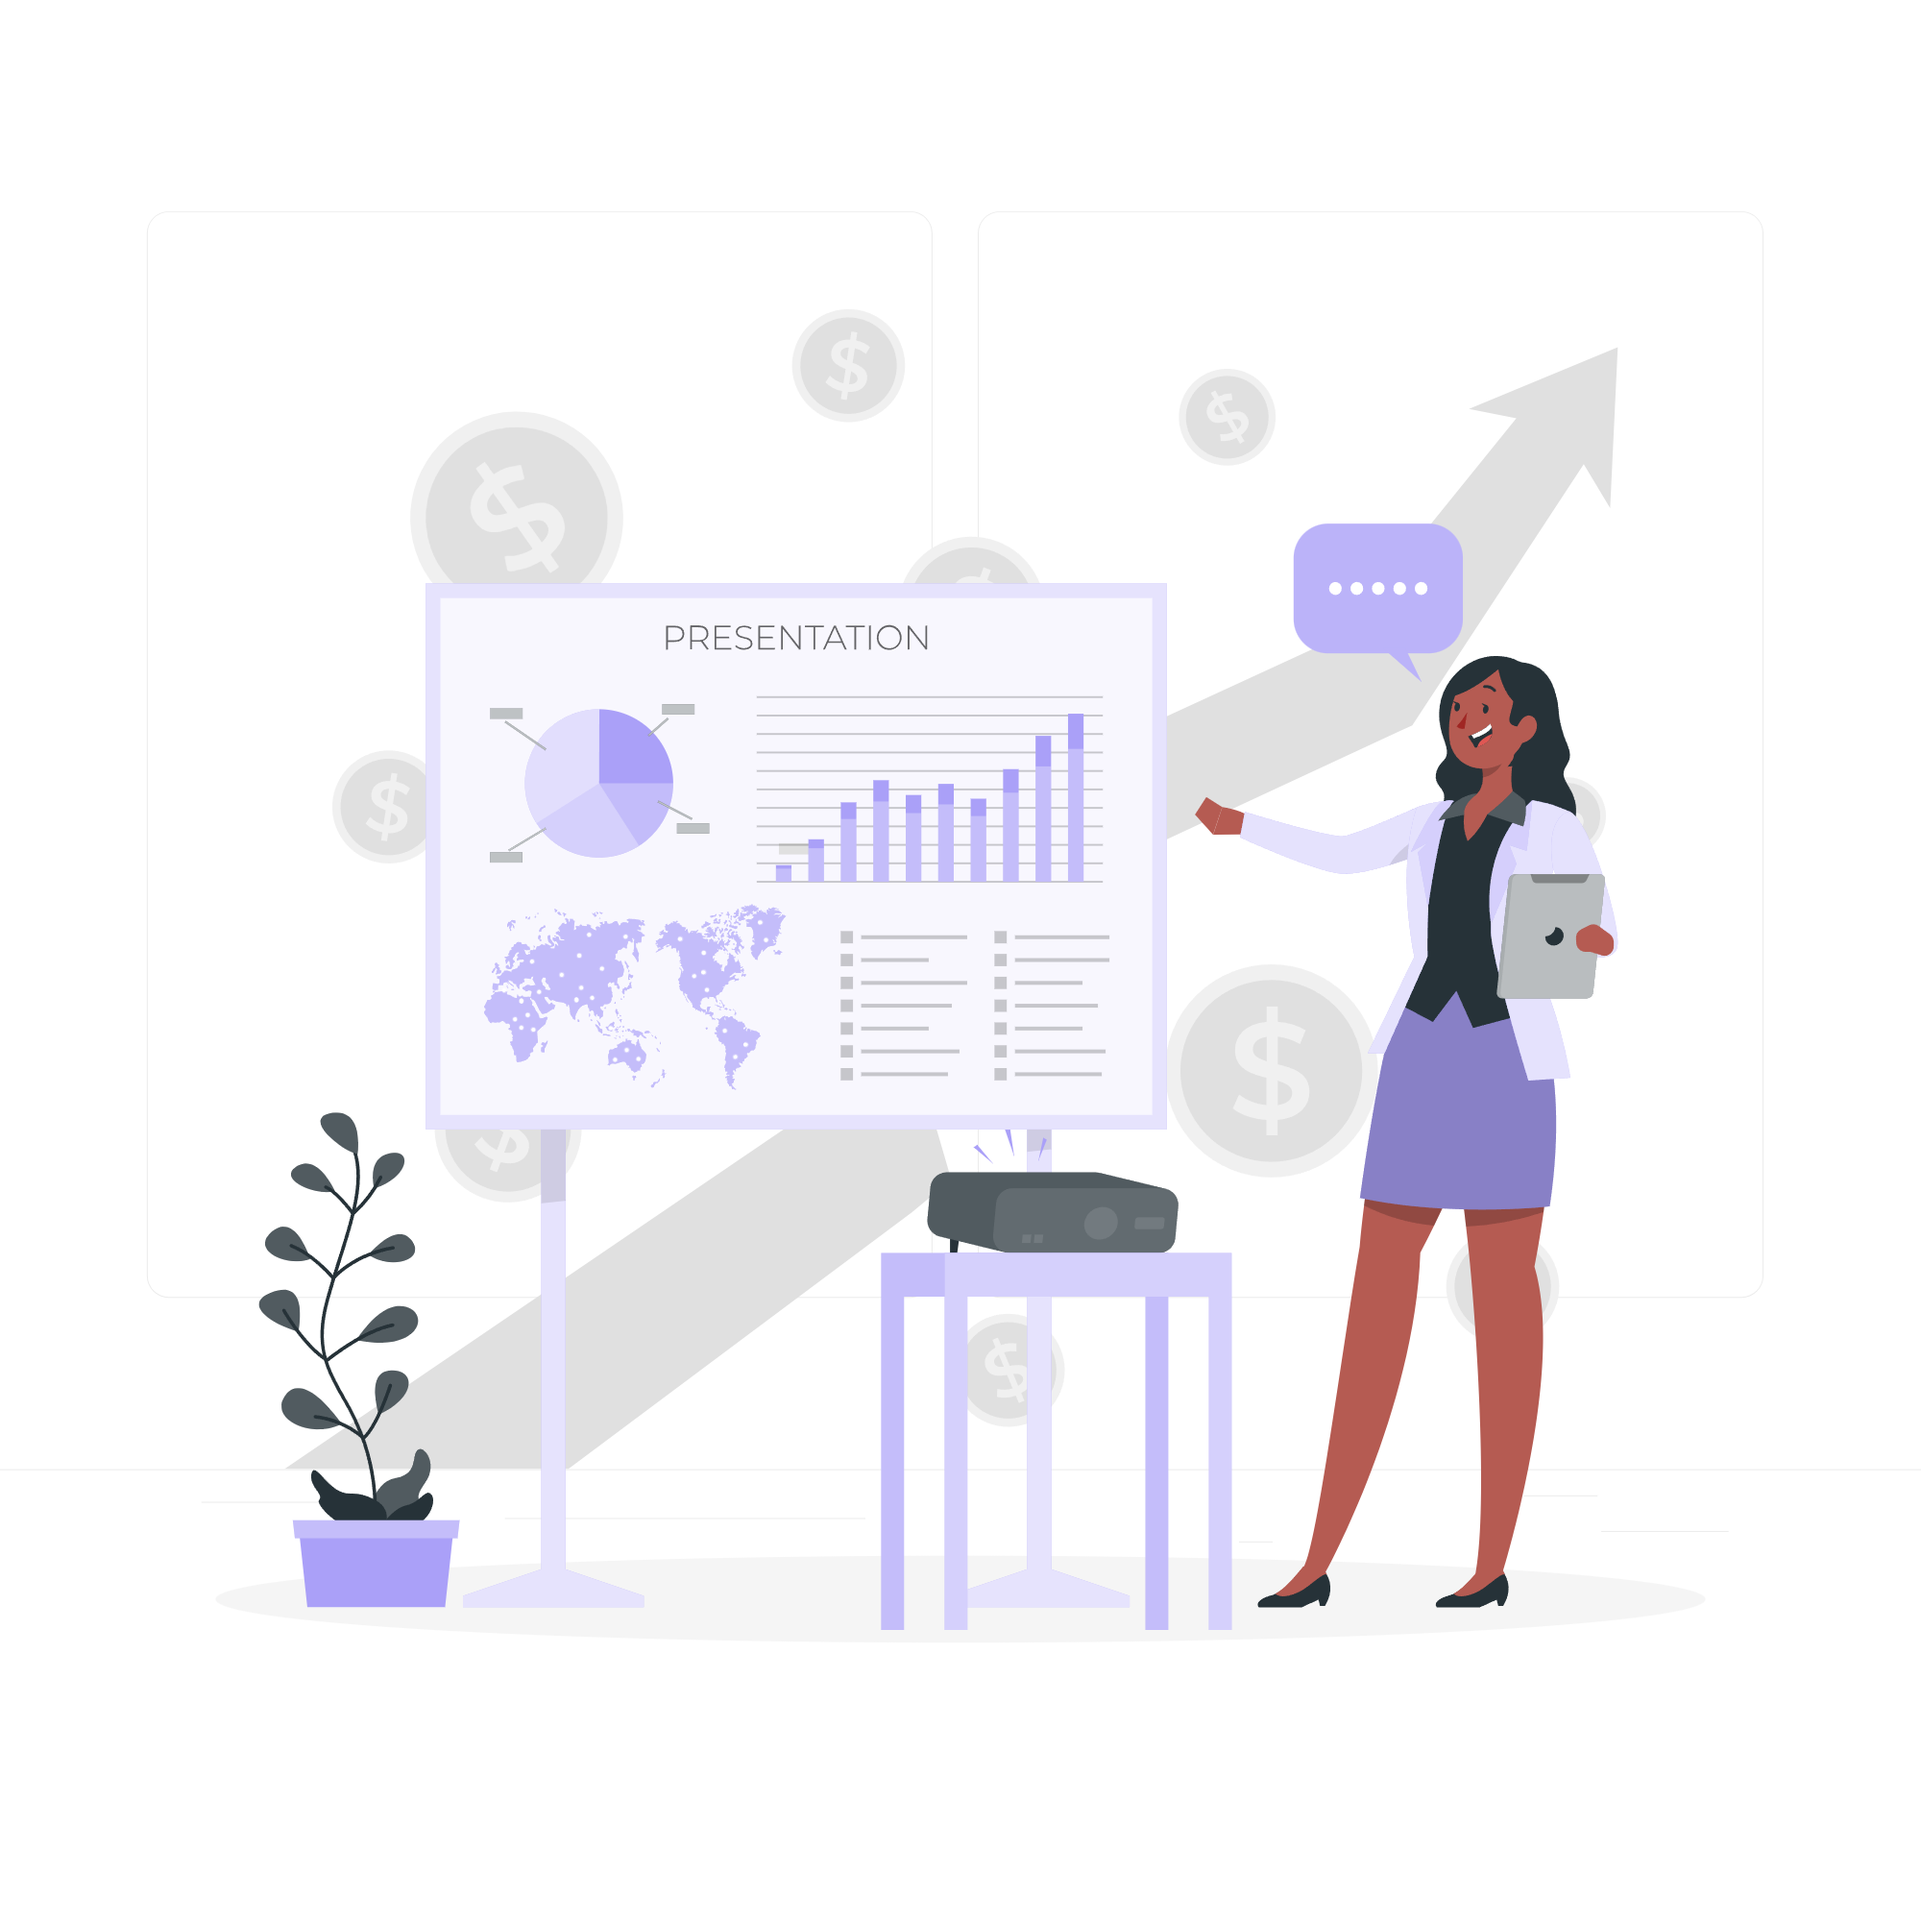
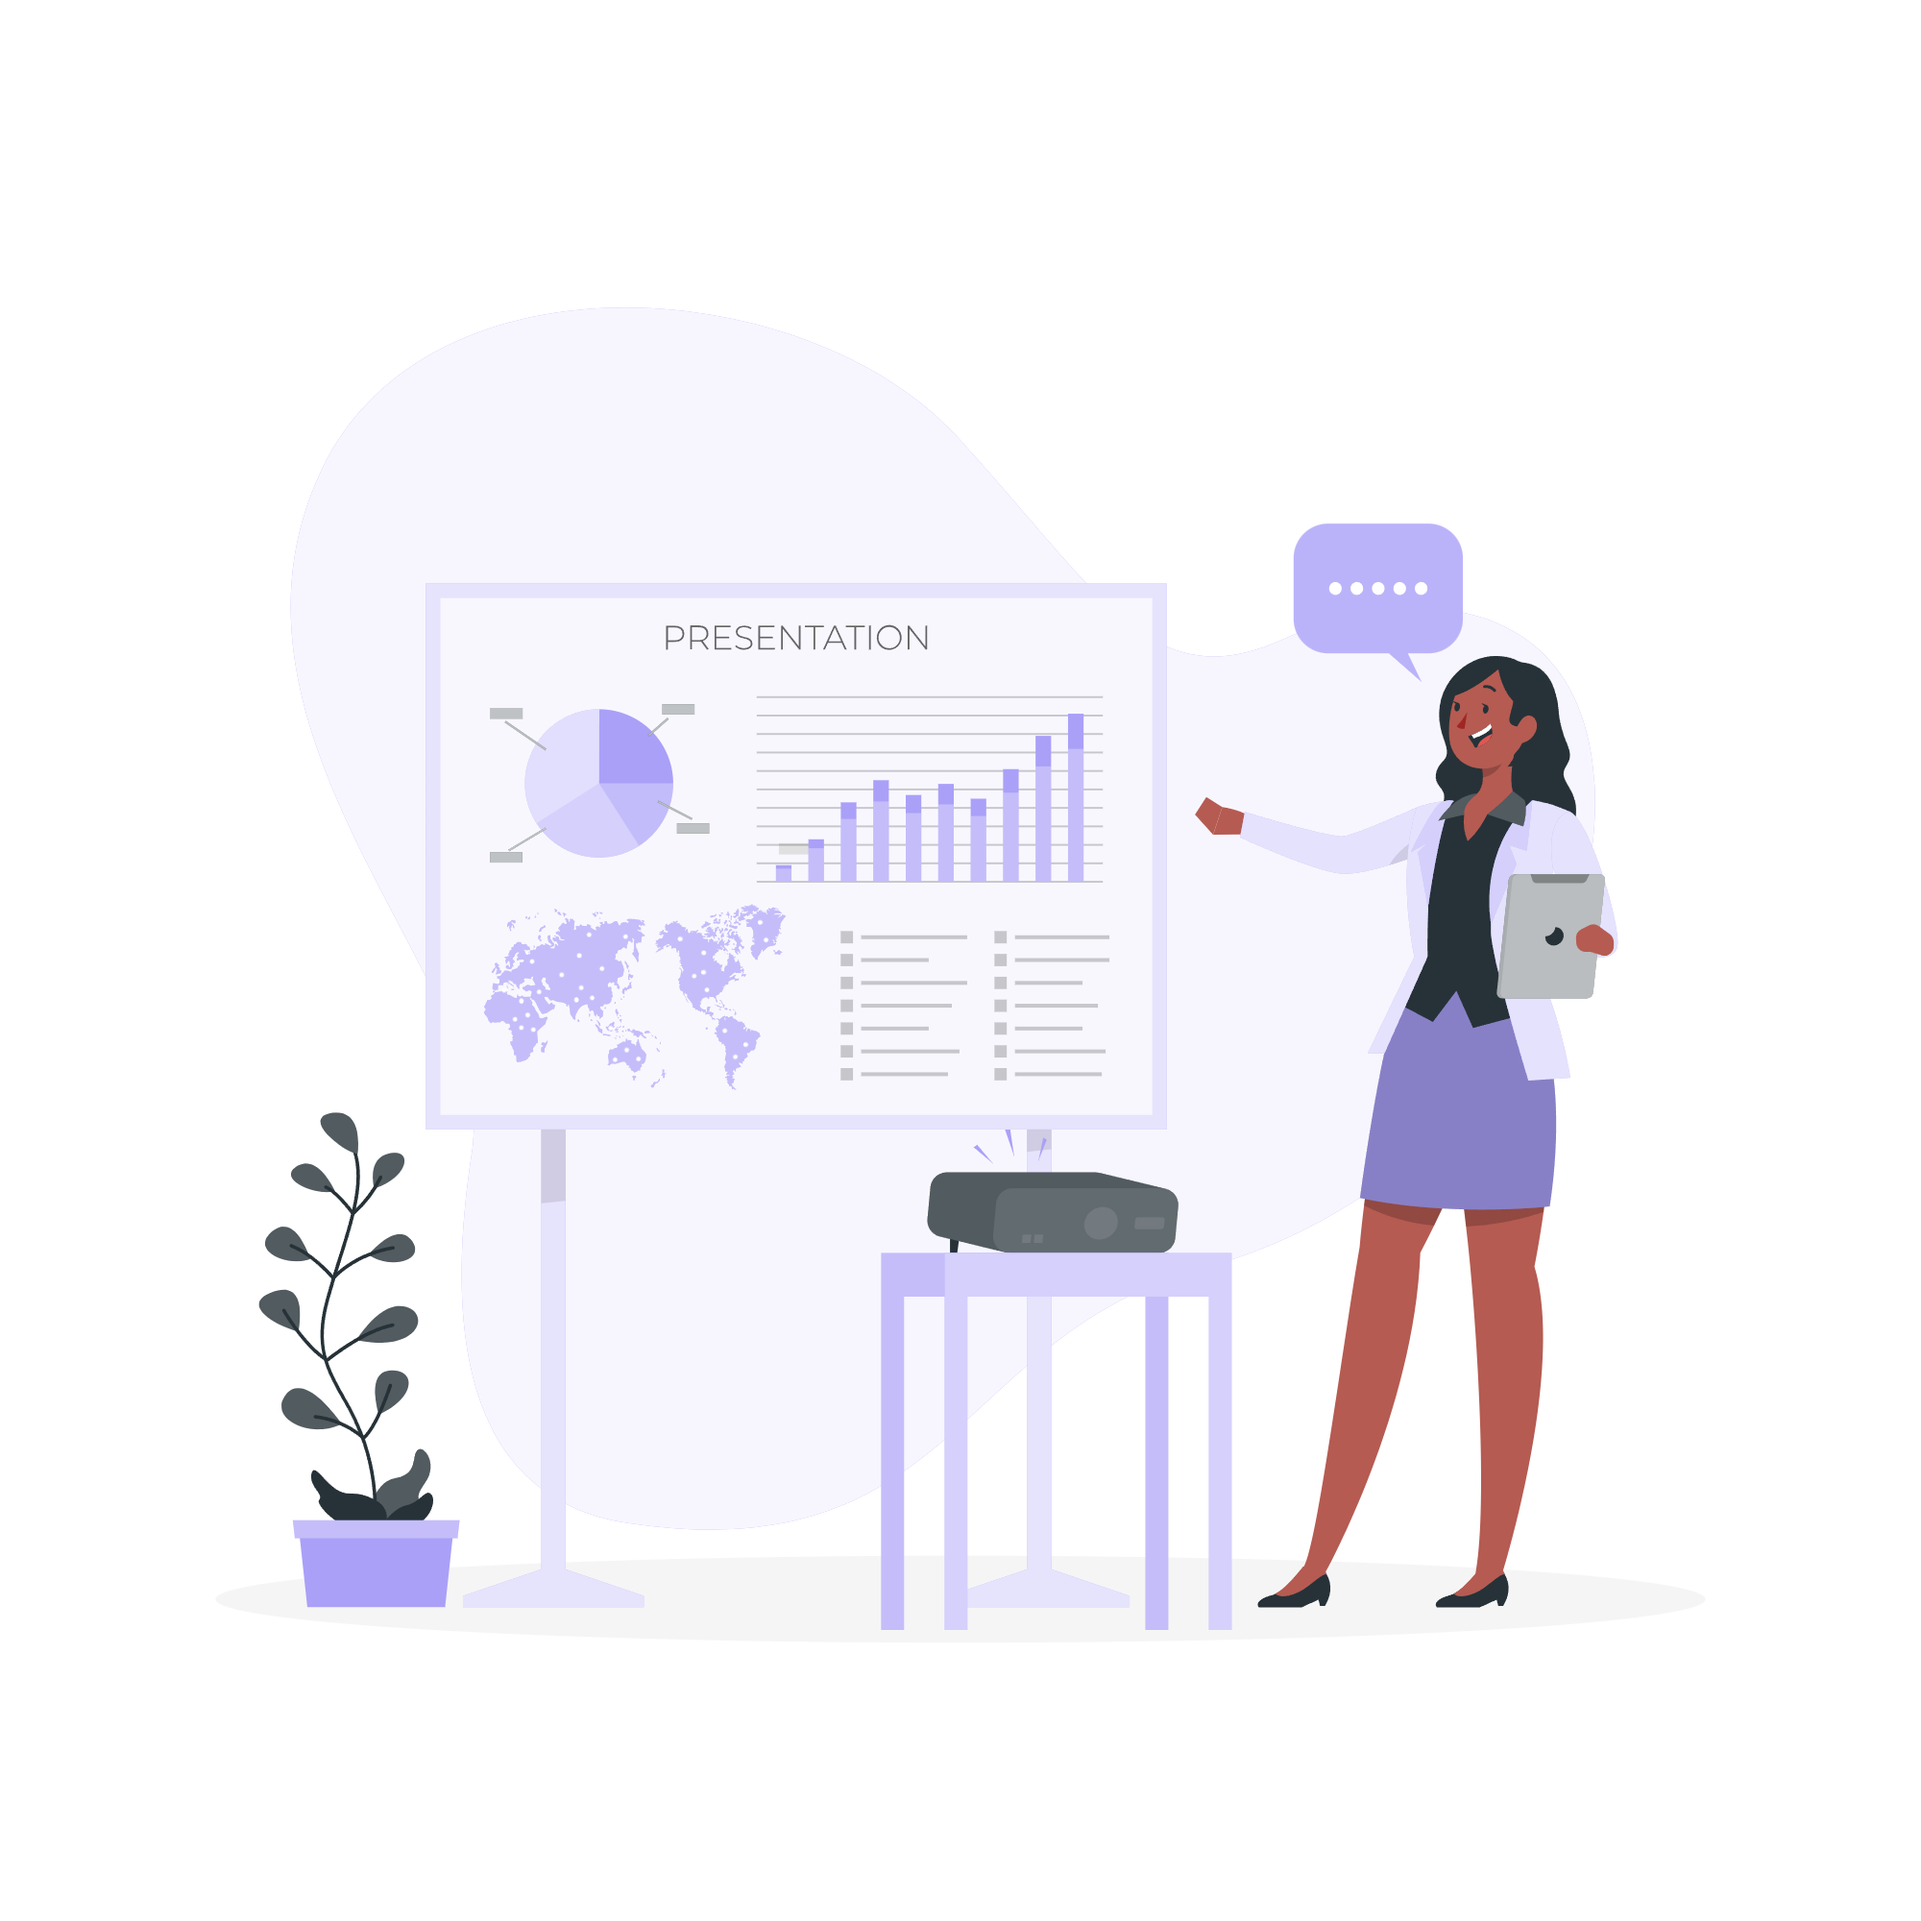
Alteracao de imagem e cor, ajuste dos cards de razoes e servicos.

diff --git a/src/paginas/servico/Servicos.tsx b/src/paginas/servico/Servicos.tsx
@@ -75,13 +75,13 @@ function Servicos() {
       >
         {slidesData.map((slide, index) => (
           <SwiperSlide key={index}>
-            <div className="flex flex-col items-center justify-around border-2 shadow-xl rounded-2xl mx-5 h-[80vh] text-center md:h-[90vh]">
-              <img src={slide.imagem} alt={`Slide ${index + 1}`} className="flex justify-center items-center object-contain md:h-56 " />
-              <div className="text-cor3 px-4">
-                <p className="text-center font-semibold font-corpo text-3xl">
+            <div className="flex flex-col items-center justify-start border-2 shadow-xl rounded-2xl mx-5 h-[85vh] text-center md:h-[90vh]">
+              <img src={slide.imagem} alt={`Slide ${index + 1}`} className="flex justify-center items-center object-contain h-96 md:h-56 " />
+              <div className="text-cor3 px-3 pt-2">
+                <p className="text-center font-bold font-corpo text-3xl">
                   {slide.titulo}
                 </p>
-                <p className="font-corpo font-semibold text-justify text-2xl p-2">
+                <p className="font-corpo text-slate-600 font-semibold text-justify text-2xl pt-4">
                   {slide.descricao}
                 </p>
               </div>

diff --git a/src/paginas/razoes/Razoes.tsx b/src/paginas/razoes/Razoes.tsx
@@ -111,13 +111,13 @@ function Razoes() : JSX.Element{
     >
       {razoes.map((slide, index) => (
         <SwiperSlide key={index}>
-          <div className="flex flex-col items-center border-2 shadow-xl rounded-2xl m-4 h-[60vh] md:h-[75vh]">
+          <div className="flex flex-col items-center justify-start border-2 shadow-xl rounded-2xl m-4 h-[60vh] md:h-[75vh]">
             <img src={slide.imagem} alt={`Slide ${index + 1}`} className="flex justify-center items-center object-contain md:h-56 w-2/3"/>
-            <div className="text-cor3 px-4">
-              <p className="text-center font-semibold font-corpo text-3xl p-2">
+            <div className="text-cor3 px-2 pt-3">
+              <p className="text-center font-bold font-corpo text-3xl">
                 {slide.titulo}
               </p>
-              <p className="font-corpo font-semibold text-justify text-2xl">
+              <p className="font-corpo text-slate-600 font-semibold text-justify text-2xl px-2 pt-4">
                 {slide.descricao}
               </p>
             </div>

diff --git a/src/paginas/home/Home.tsx b/src/paginas/home/Home.tsx
@@ -37,8 +37,8 @@ function Home() {
                     </div>
 
 
-                    <div className='container relative my-auto mx-auto w-[40vh] h-[57vh] md:h-[85vh] md:w-[90vh] mb-[-2.5rem] overflow-y-hidden'>
-                        <img src={rebeca} alt="" className=' flex justify-start mt-3 md:mt-0 items-start pb-[-2.5rem]' />
+                    <div className='container relative my-auto mx-auto w-[40vh] h-[57vh] md:h-[85vh] md:w-[90vh]  mb-[-2.0rem] md:mb-[-3.0rem] md:overflow-visible '>
+                        <img src={rebeca} alt="" className='flex justify-start md:mt-0 items-end overflow-y-hidden' />
                     </div>
                 </div>
 

diff --git a/tailwind.config.js b/tailwind.config.js
@@ -16,7 +16,7 @@ module.exports = {
 
       colors: { 
       cor1: '#aaaef8 ',
-      cor2: '#8b7bfa',
+      cor2: '#646AD9',
       cor3: '#573aa8',
       cor4: '#a8a8d9'
     
